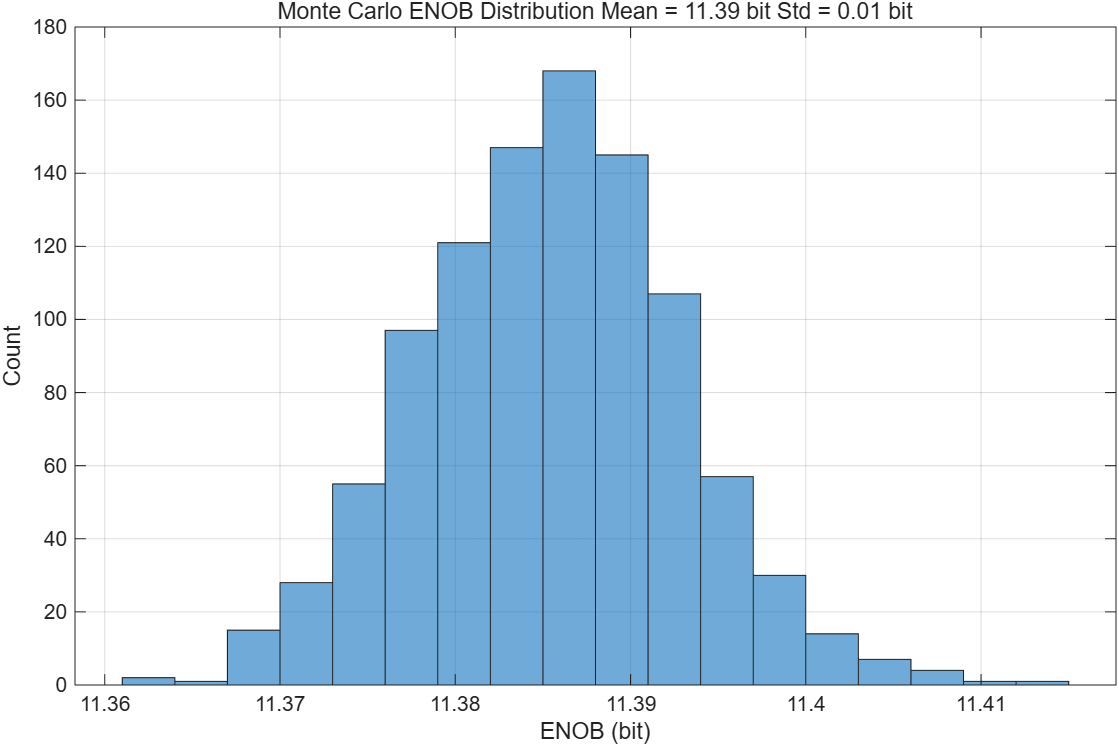
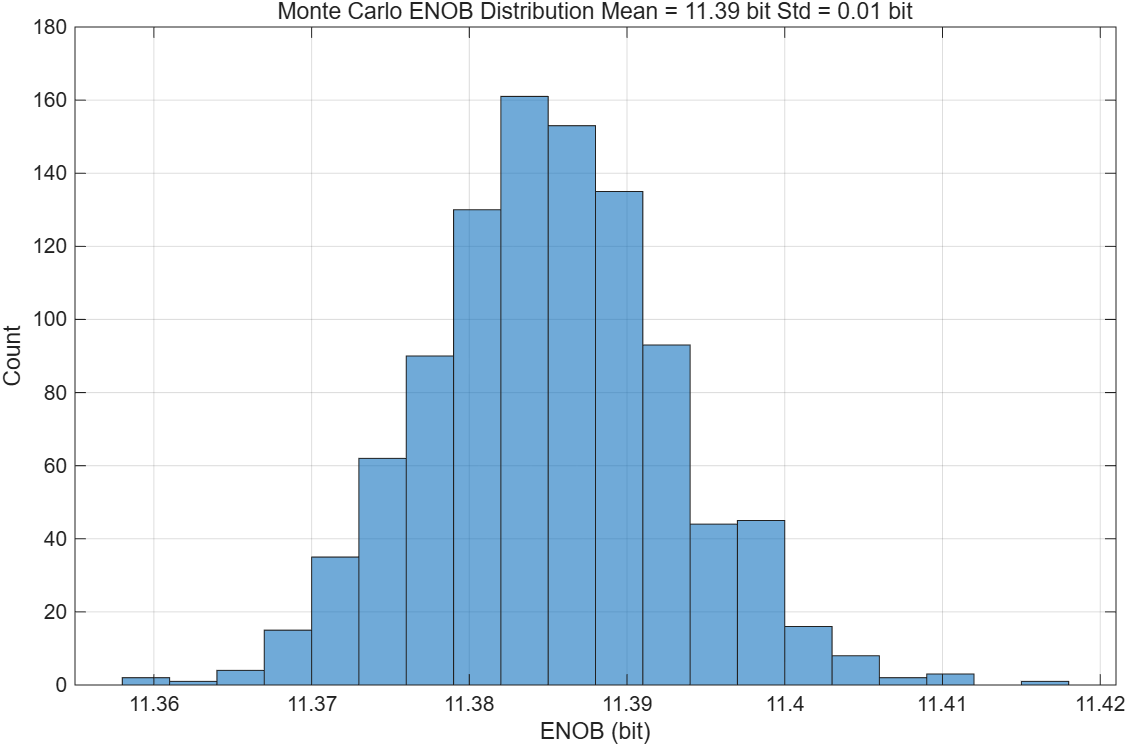
add test INL with definition

diff --git a/function/plotAdcStaticSimulationResult.m b/function/plotAdcStaticSimulationResult.m
@@ -3,23 +3,23 @@ function [dnlObj, inlObj] = plotAdcStaticSimulationResult( p, adcStaticPerforman
   %% plot DNL
 
   dnlObj = figure;
-  plot( adcStaticPerformanceMetrics.codeIndex, adcStaticPerformanceMetrics.dnlResult, 'b', 'LineWidth', 2.5 );
+  plot( adcStaticPerformanceMetrics.dnlCodeIndex, adcStaticPerformanceMetrics.dnlResult, 'b', 'LineWidth', 2.5 );
   xlabel( 'Code' );
   ylabel( 'DNL (LSB)' );
-  text( max( adcStaticPerformanceMetrics.codeIndex ) * 0.5, 0.8, sprintf( 'DNLmax = %.2f LSB', max(adcStaticPerformanceMetrics.dnlResult) ), 'FontWeight', 'bold' );
-  title( 'ADC DNL  ' );
-  ylim([-1, 1]);
+  text( max( adcStaticPerformanceMetrics.dnlCodeIndex ) * 0.5, 0.8, sprintf( 'DNLmax = %.2f LSB', max(adcStaticPerformanceMetrics.dnlResult) ), 'FontWeight', 'bold' );
+  title( 'ADC DNL' );
+  ylim( [-4, 4] );
   grid on;
-  
+
   %% plot INL
 
   inlObj = figure;
-  plot( adcStaticPerformanceMetrics.codeIndex, adcStaticPerformanceMetrics.inlResult, 'b', 'LineWidth', 2.5 );
+  plot( adcStaticPerformanceMetrics.inlCodeIndex, adcStaticPerformanceMetrics.inlResult, 'b', 'LineWidth', 2.5 );
   xlabel( 'Code' );
   ylabel( 'INL (LSB)' );
-  text( max( adcStaticPerformanceMetrics.codeIndex ) * 0.5, 0.8, sprintf( 'INLmax = %.2f LSB', max(adcStaticPerformanceMetrics.inlResult) ), 'FontWeight', 'bold' );
-  title( 'ADC INL ' );
-   ylim([-1, 1]);
+  text( max( adcStaticPerformanceMetrics.inlCodeIndex ) * 0.5, 0.8, sprintf( 'INLmax = %.2f LSB', max(adcStaticPerformanceMetrics.inlResult) ), 'FontWeight', 'bold' );
+  title( 'ADC INL' );
+  ylim( [-4, 4] );
   grid on;
 
 end

diff --git a/testbench/simBwaAdcStaticTest.m b/testbench/simBwaAdcStaticTest.m
@@ -21,13 +21,13 @@ samples = genRampSamples( p );
 
 %% generate CDAC array
 
-capArray = genCbwCdac( p );
+capArray = genBwaCdac( p );
 
 %% run simulation
 
 for iSample = 1 : numTotalSamples
   sample = samples.data( iSample );
-  conversionResult( iSample, : ) = cbwSarAdc( sample, p, capArray );
+  conversionResult( iSample, : ) = bwaSarAdc( sample, p, capArray );
   idealDacOutput( iSample ) = idealDAC( conversionResult( iSample, : ) );
 end
 
@@ -41,9 +41,9 @@ adcStaticPerformanceMetrics = processAdcHistogramData( p, idealDacOutput );
 
 %% export plots
 
-drawingDnl = 'drawing/cbw-adc-dnl-histogram-method.png';
+drawingDnl = 'drawing/bwa-adc-dnl-histogram-method.png';
 exportgraphics( dnlObj, drawingDnl );
-drawingInl = 'drawing/cbw-adc-inl-histogram-method.png';
+drawingInl = 'drawing/bwa-adc-inl-histogram-method.png';
 exportgraphics( inlObj, drawingInl );
 
 %% process simulation data with definition
@@ -56,9 +56,9 @@ conversionalAdcStaticPerformanceMetrics = ConventionalProcessAdcStaticData( p, s
 
 %% export plots
 
-drawingDnlConversional = 'drawing/cbw-adc-dnl-definition-method.png';
+drawingDnlConversional = 'drawing/bwa-adc-dnl-definition-method.png';
 exportgraphics( dnlObjConversional, drawingDnlConversional );
-drawingInlConversional = 'drawing/cbw-adc-inl-definiton-method.png';
+drawingInlConversional = 'drawing/bwa-adc-inl-definiton-method.png';
 exportgraphics( inlObjConversional, drawingInlConversional );
 
 

diff --git a/testbench/simSbwAdcStaticTest.m b/testbench/simSbwAdcStaticTest.m
@@ -21,13 +21,13 @@ samples = genRampSamples( p );
 
 %% generate CDAC array
 
-capArray = genCbwCdac( p );
+capArray = genSbwCdac( p );
 
 %% run simulation
 
 for iSample = 1 : numTotalSamples
   sample = samples.data( iSample );
-  conversionResult( iSample, : ) = cbwSarAdc( sample, p, capArray );
+  conversionResult( iSample, : ) = sbwSarAdc( sample, p, capArray );
   idealDacOutput( iSample ) = idealDAC( conversionResult( iSample, : ) );
 end
 
@@ -41,9 +41,9 @@ adcStaticPerformanceMetrics = processAdcHistogramData( p, idealDacOutput );
 
 %% export plots
 
-drawingDnl = 'drawing/cbw-adc-dnl-histogram-method.png';
+drawingDnl = 'drawing/sbw-adc-dnl-histogram-method.png';
 exportgraphics( dnlObj, drawingDnl );
-drawingInl = 'drawing/cbw-adc-inl-histogram-method.png';
+drawingInl = 'drawing/sbw-adc-inl-histogram-method.png';
 exportgraphics( inlObj, drawingInl );
 
 %% process simulation data with definition
@@ -56,9 +56,9 @@ conversionalAdcStaticPerformanceMetrics = ConventionalProcessAdcStaticData( p, s
 
 %% export plots
 
-drawingDnlConversional = 'drawing/cbw-adc-dnl-definition-method.png';
+drawingDnlConversional = 'drawing/sbw-adc-dnl-definition-method.png';
 exportgraphics( dnlObjConversional, drawingDnlConversional );
-drawingInlConversional = 'drawing/cbw-adc-inl-definiton-method.png';
+drawingInlConversional = 'drawing/sbw-adc-inl-definiton-method.png';
 exportgraphics( inlObjConversional, drawingInlConversional );
 
 

diff --git a/function/ConventionalProcessAdcStaticData.m b/function/ConventionalProcessAdcStaticData.m
@@ -1,0 +1,35 @@
+function adcStaticPerformanceMetrics = ConventionalProcessAdcStaticData( p, samples, conversionResult )
+
+  %% calculate LSB
+
+  voltageLSB = p.Vref / 2 .^ p.adcResolution;
+
+  %% find transition points
+
+  transitionIndex = find( diff( conversionResult ) ~= 0 );
+  transitionVoltage = ( samples.data( transitionIndex ) + samples.data( transitionIndex + 1 ) ) / 2;
+  
+  %% calculate code width
+
+  codeWidth = diff( transitionVoltage );
+
+  %% calculate DNL
+
+  dnlResult = codeWidth / voltageLSB - 1;
+
+  %% calculate ideal transition voltage
+
+  idealTransitionVoltage = ( 1 : 2 .^ p.adcResolution - 1 ) * voltageLSB;
+
+  %% calculate INL
+
+  inlResult = ( transitionVoltage - idealTransitionVoltage ) / voltageLSB;
+
+  %% store results
+
+  adcStaticPerformanceMetrics.dnlResult = dnlResult;
+  adcStaticPerformanceMetrics.inlResult = inlResult;
+  adcStaticPerformanceMetrics.dnlCodeIndex = 1 : 2 .^ p.adcResolution - 2;
+  adcStaticPerformanceMetrics.inlCodeIndex = 1 : 2 .^ p.adcResolution - 1;
+
+end

diff --git a/function/processAdcHistogramData.m b/function/processAdcHistogramData.m
@@ -1,24 +1,20 @@
 function adcStaticPerformanceMetrics = processAdcHistogramData( p, conversionResult )
 
-  %% allocate storage for static result
-
-  dnlResult = nan( 2 .^ p.adcResolution, 1 );
-  inlResult = nan( 2 .^ p.adcResolution, 1 );
-
   %% find actual hits of each code
-  
+
   edges = -0.5 : 1 : 2 .^ p.adcResolution - 0.5;
   codeCount = histcounts(conversionResult, edges);
-  
+
   %% calculate DNL and INL
 
-  dnlResult = codeCount(:) / p.numOfEachCode - 1;
+  dnlResult = codeCount( : ) / p.numOfEachCode - 1;
   inlResult = cumsum( dnlResult );
 
   %% save the result
-  
+
   adcStaticPerformanceMetrics.dnlResult = dnlResult;
   adcStaticPerformanceMetrics.inlResult = inlResult;
-  adcStaticPerformanceMetrics.codeIndex = 1 : 2 .^ p.adcResolution;
+  adcStaticPerformanceMetrics.dnlCodeIndex = 0 : 2 .^ p.adcResolution - 1;
+  adcStaticPerformanceMetrics.inlCodeIndex = 0 : 2 .^ p.adcResolution - 1;
 
 end

diff --git a/function/genBwaCdac.m b/function/genBwaCdac.m
@@ -4,9 +4,9 @@ function capArray = genBwaCdac( p )
 
   weightCDAC = 2 .^ ( p.adcResolution / 2 - 1 : -1 : 0 );
 
-   %% include attenuation capacitor
+  %% include attenuation capacitor
 
-  weightArray = [ weightCDAC, 1, weightCDAC ];
+  weightArray = [weightCDAC, 1, weightCDAC];
 
   %% initialize capacitor array
 
@@ -16,9 +16,9 @@ function capArray = genBwaCdac( p )
 
   for iCap = 1 : length( weightArray )
     numUnitCap = weightArray( iCap );
-    capValueArray(iCap) = normrnd(numUnitCap * p.unitCap, sqrt( numUnitCap ) * p.mismatchStd * p.unitCap / p.numOfSmallestCap );
+    capValueArray( iCap ) = normrnd( numUnitCap * p.unitCap, sqrt( numUnitCap ) * p.mismatchStd * p.unitCap / p.numOfSmallestCap );
   end
-  
+
   %% store results
 
   capArray.main = capValueArray( 1 : p.adcResolution / 2 );

diff --git a/models/bwaCdac.m b/models/bwaCdac.m
@@ -5,7 +5,7 @@ function Vdac = bwaCdac( Vin, p, capArray, digitalWord )
   capTotalMain = sum( capArray.main );
   capTotalSub = sum( capArray.sub );
 
-  %% calculate attenuation factor 
+  %% calculate attenuation factor
 
   AR = capArray.att / ( capTotalMain + capArray.att + p.capParMain );
   hSub = capArray.sub *  digitalWord( p.adcResolution / 2 + 1 : p.adcResolution ).' / ( capTotalSub + p.capParSub + capArray.att );
@@ -15,5 +15,5 @@ function Vdac = bwaCdac( Vin, p, capArray, digitalWord )
 
   H = hMain + AR * hSub;
   Vdac = - Vin + p.Vref * H;
-  
+
 end

diff --git a/models/sbwCdac.m b/models/sbwCdac.m
@@ -10,8 +10,8 @@ function Vdac = sbwCdac( Vin, p, capArray, digitalWord )
 
   %% transform digital word to digtalWordMSB and digitalWordRest
 
-  digitalWordMSB = [ zeros( 1, iMsbWord - 1 ), ones( 1, p.adcResolution - iMsbWord + 1 ) ];
-  digitalWordRest = [ zeros( 1, iMsbWord - 1 ), digitalWord(iMsbWord + 1 : p.adcResolution ) ];
+  digitalWordMSB = [zeros( 1, iMsbWord - 1 ), ones( 1, p.adcResolution - iMsbWord + 1 )];
+  digitalWordRest = [zeros( 1, iMsbWord - 1 ), digitalWord(iMsbWord + 1 : p.adcResolution )];
 
   %% modeling preparation
 

diff --git a/sim-config/configDynamicTest.m b/sim-config/configDynamicTest.m
@@ -16,7 +16,7 @@ function p = configDynamicTest
   p.numMonteCarlo = 1000;
 
   %% code density test specification
-  
+
   p.numOfEachCode = 30;
 
   %% CDAC specification
@@ -24,7 +24,7 @@ function p = configDynamicTest
   p.smallestCap = 50e-15;
   p.numOfSmallestCap = 1;
   p.unitCap = p.smallestCap * p.numOfSmallestCap;
-  p.mismatchStd = 0;
+  p.mismatchStd = 0.05;
   p.capPar = 0;
   p.capParMain = 0;
   p.capParSub = 0;

diff --git a/function/genSbwCdac.m b/function/genSbwCdac.m
@@ -16,7 +16,7 @@ function capArray = genSbwCdac( p )
 
   for iCap = 1 : length( weightArray )
     numUnitCap = weightArray( iCap );
-    capArray(iCap) = normrnd(numUnitCap * p.unitCap, sqrt( numUnitCap ) * p.mismatchStd * p.unitCap / p.numOfSmallestCap );
+    capArray( iCap ) = normrnd( numUnitCap * p.unitCap, sqrt( numUnitCap ) * p.mismatchStd * p.unitCap / p.numOfSmallestCap );
   end
 
 end

diff --git a/function/genCbwCdac.m b/function/genCbwCdac.m
@@ -16,7 +16,7 @@ function capArray = genCbwCdac( p )
 
   for iCap = 1 : length( weightArray )
     numUnitCap = weightArray( iCap );
-    capArray(iCap) = normrnd(numUnitCap * p.unitCap, sqrt( numUnitCap ) * p.mismatchStd * p.unitCap / p.numOfSmallestCap );
+    capArray(iCap) = normrnd( numUnitCap * p.unitCap, sqrt( numUnitCap ) * p.mismatchStd * p.unitCap / p.numOfSmallestCap );
   end
 
 end

diff --git a/models/sbwSarAdc.m b/models/sbwSarAdc.m
@@ -13,7 +13,7 @@ function conversionResult = sbwSarAdc( sample, p, capArray )
   %% inject thermal noise
 
   sample = sample + thermalNoise;
-  
+
   %% binary search
 
   for iCycle = 1 : p.adcResolution
@@ -37,7 +37,7 @@ function conversionResult = sbwSarAdc( sample, p, capArray )
   end
 
   %% output
-  
+
   conversionResult = digitalWord;
 
 end
